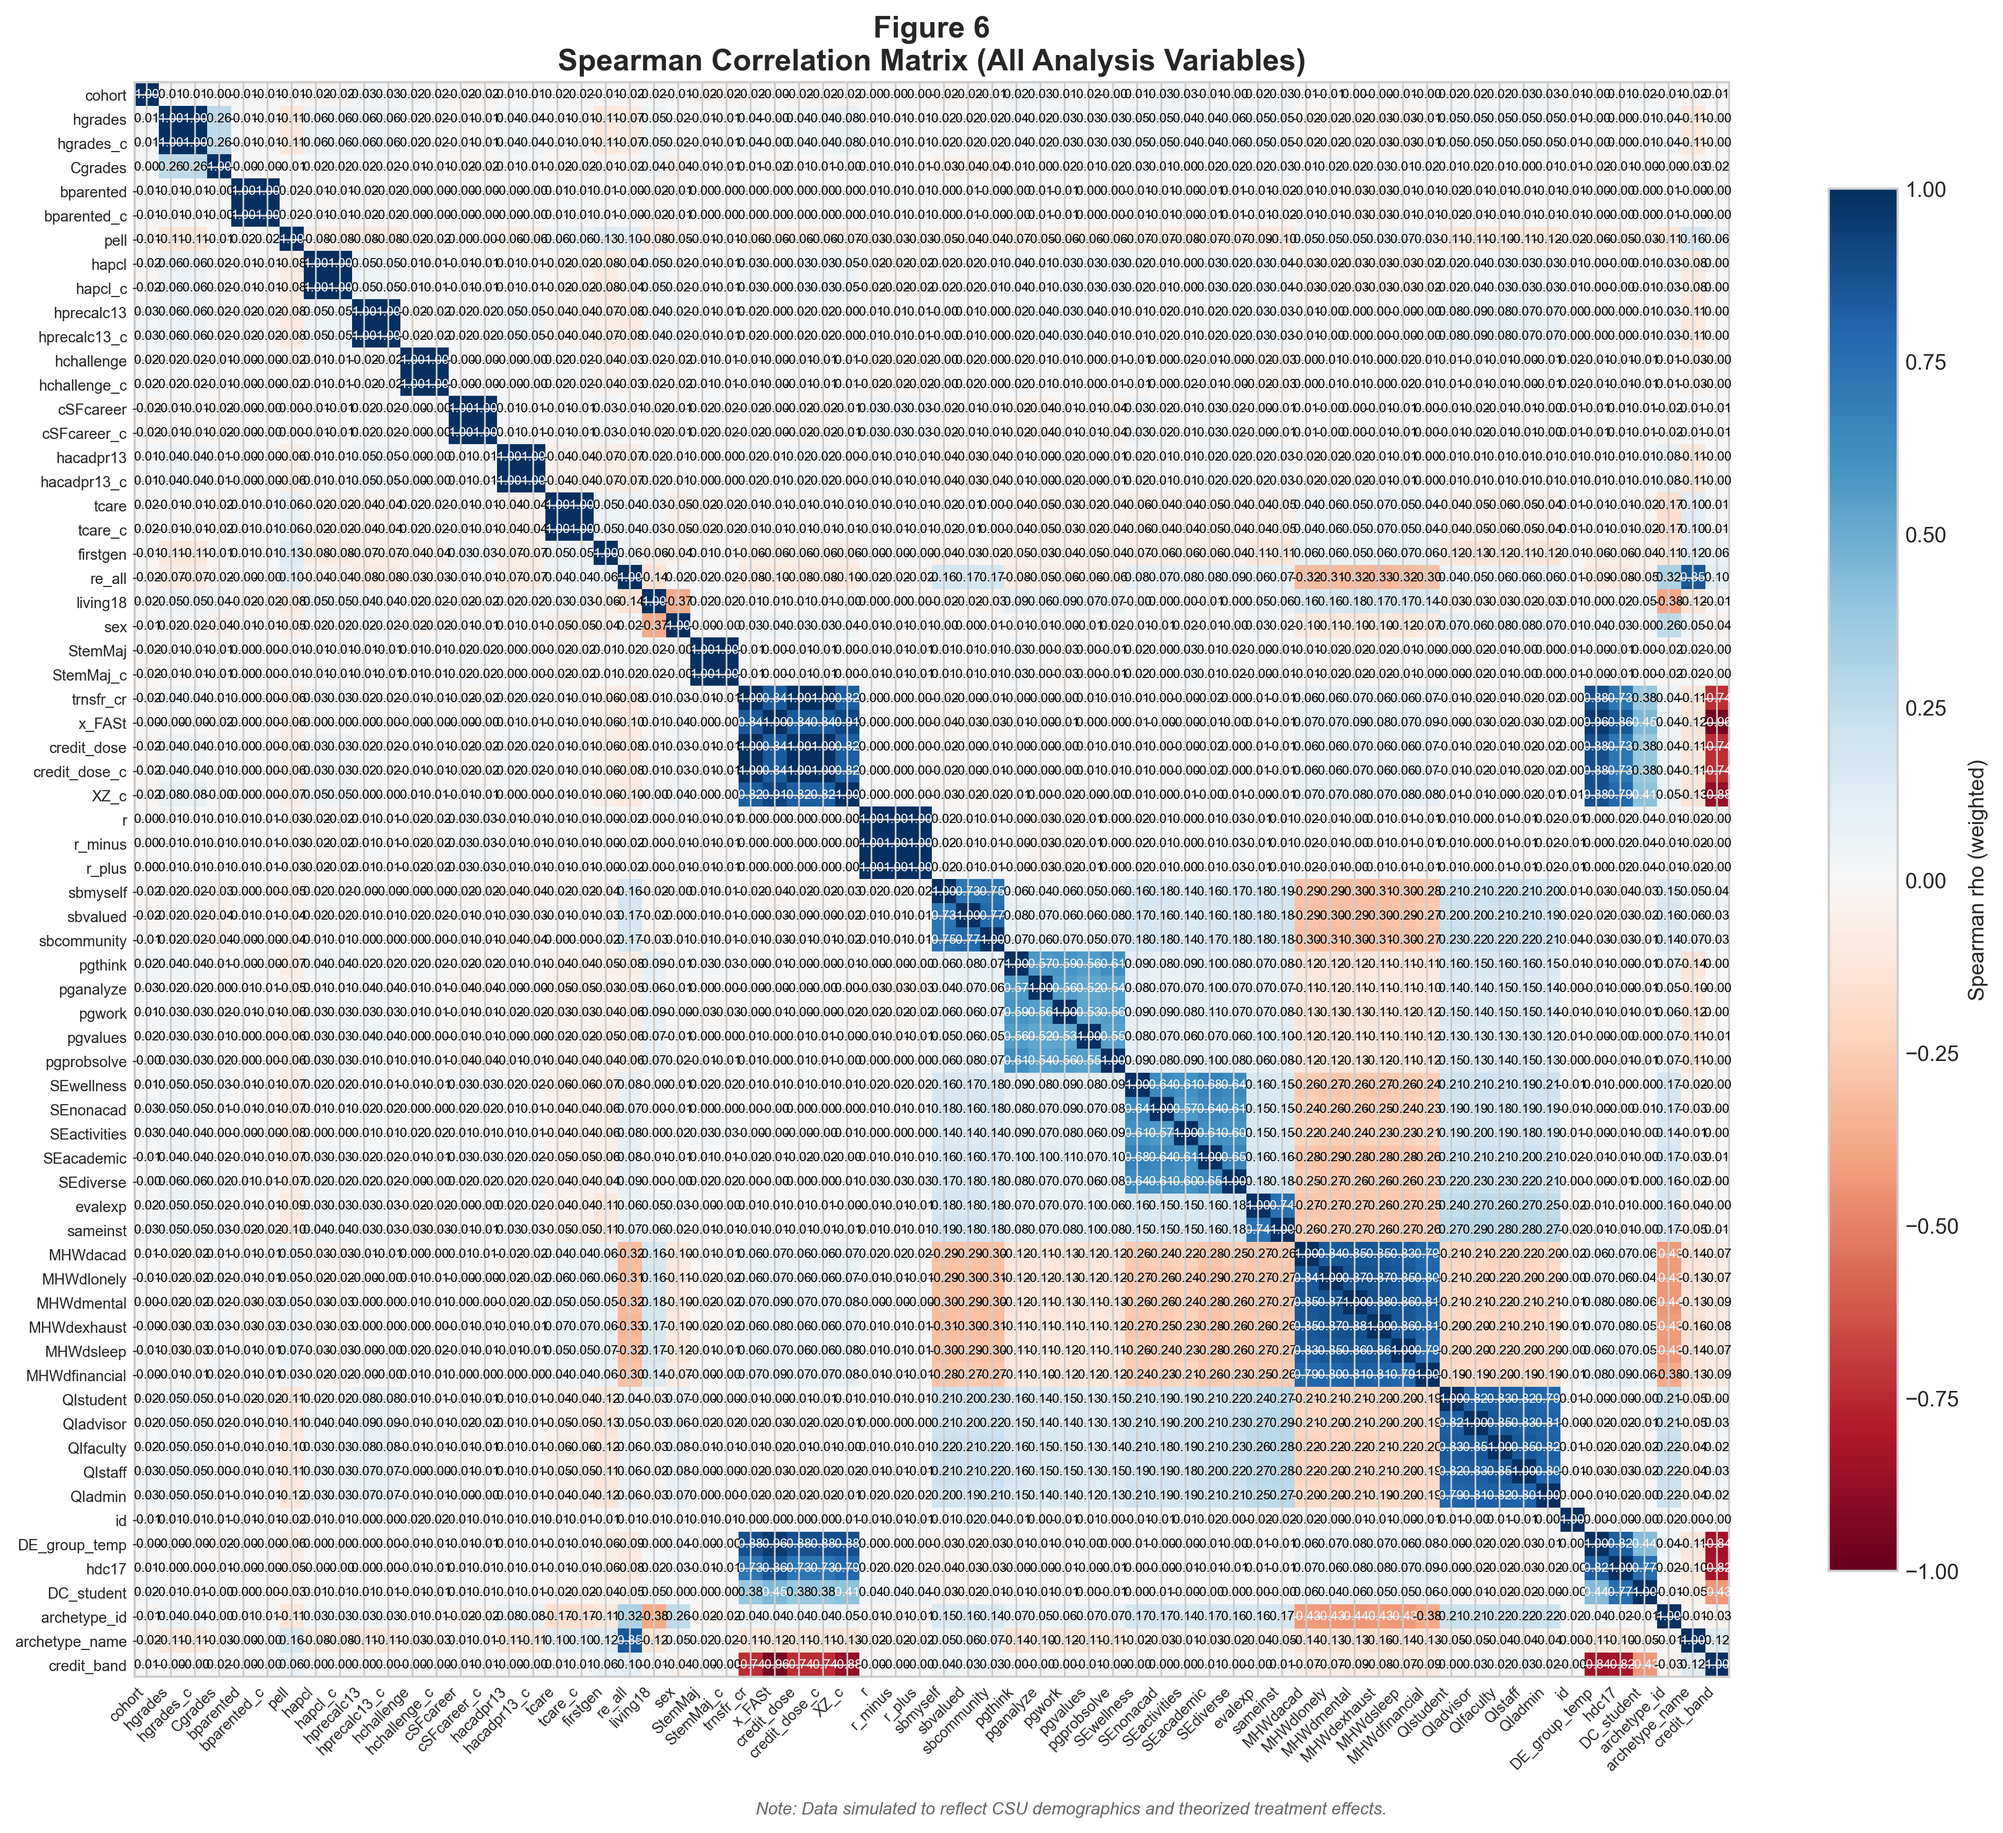
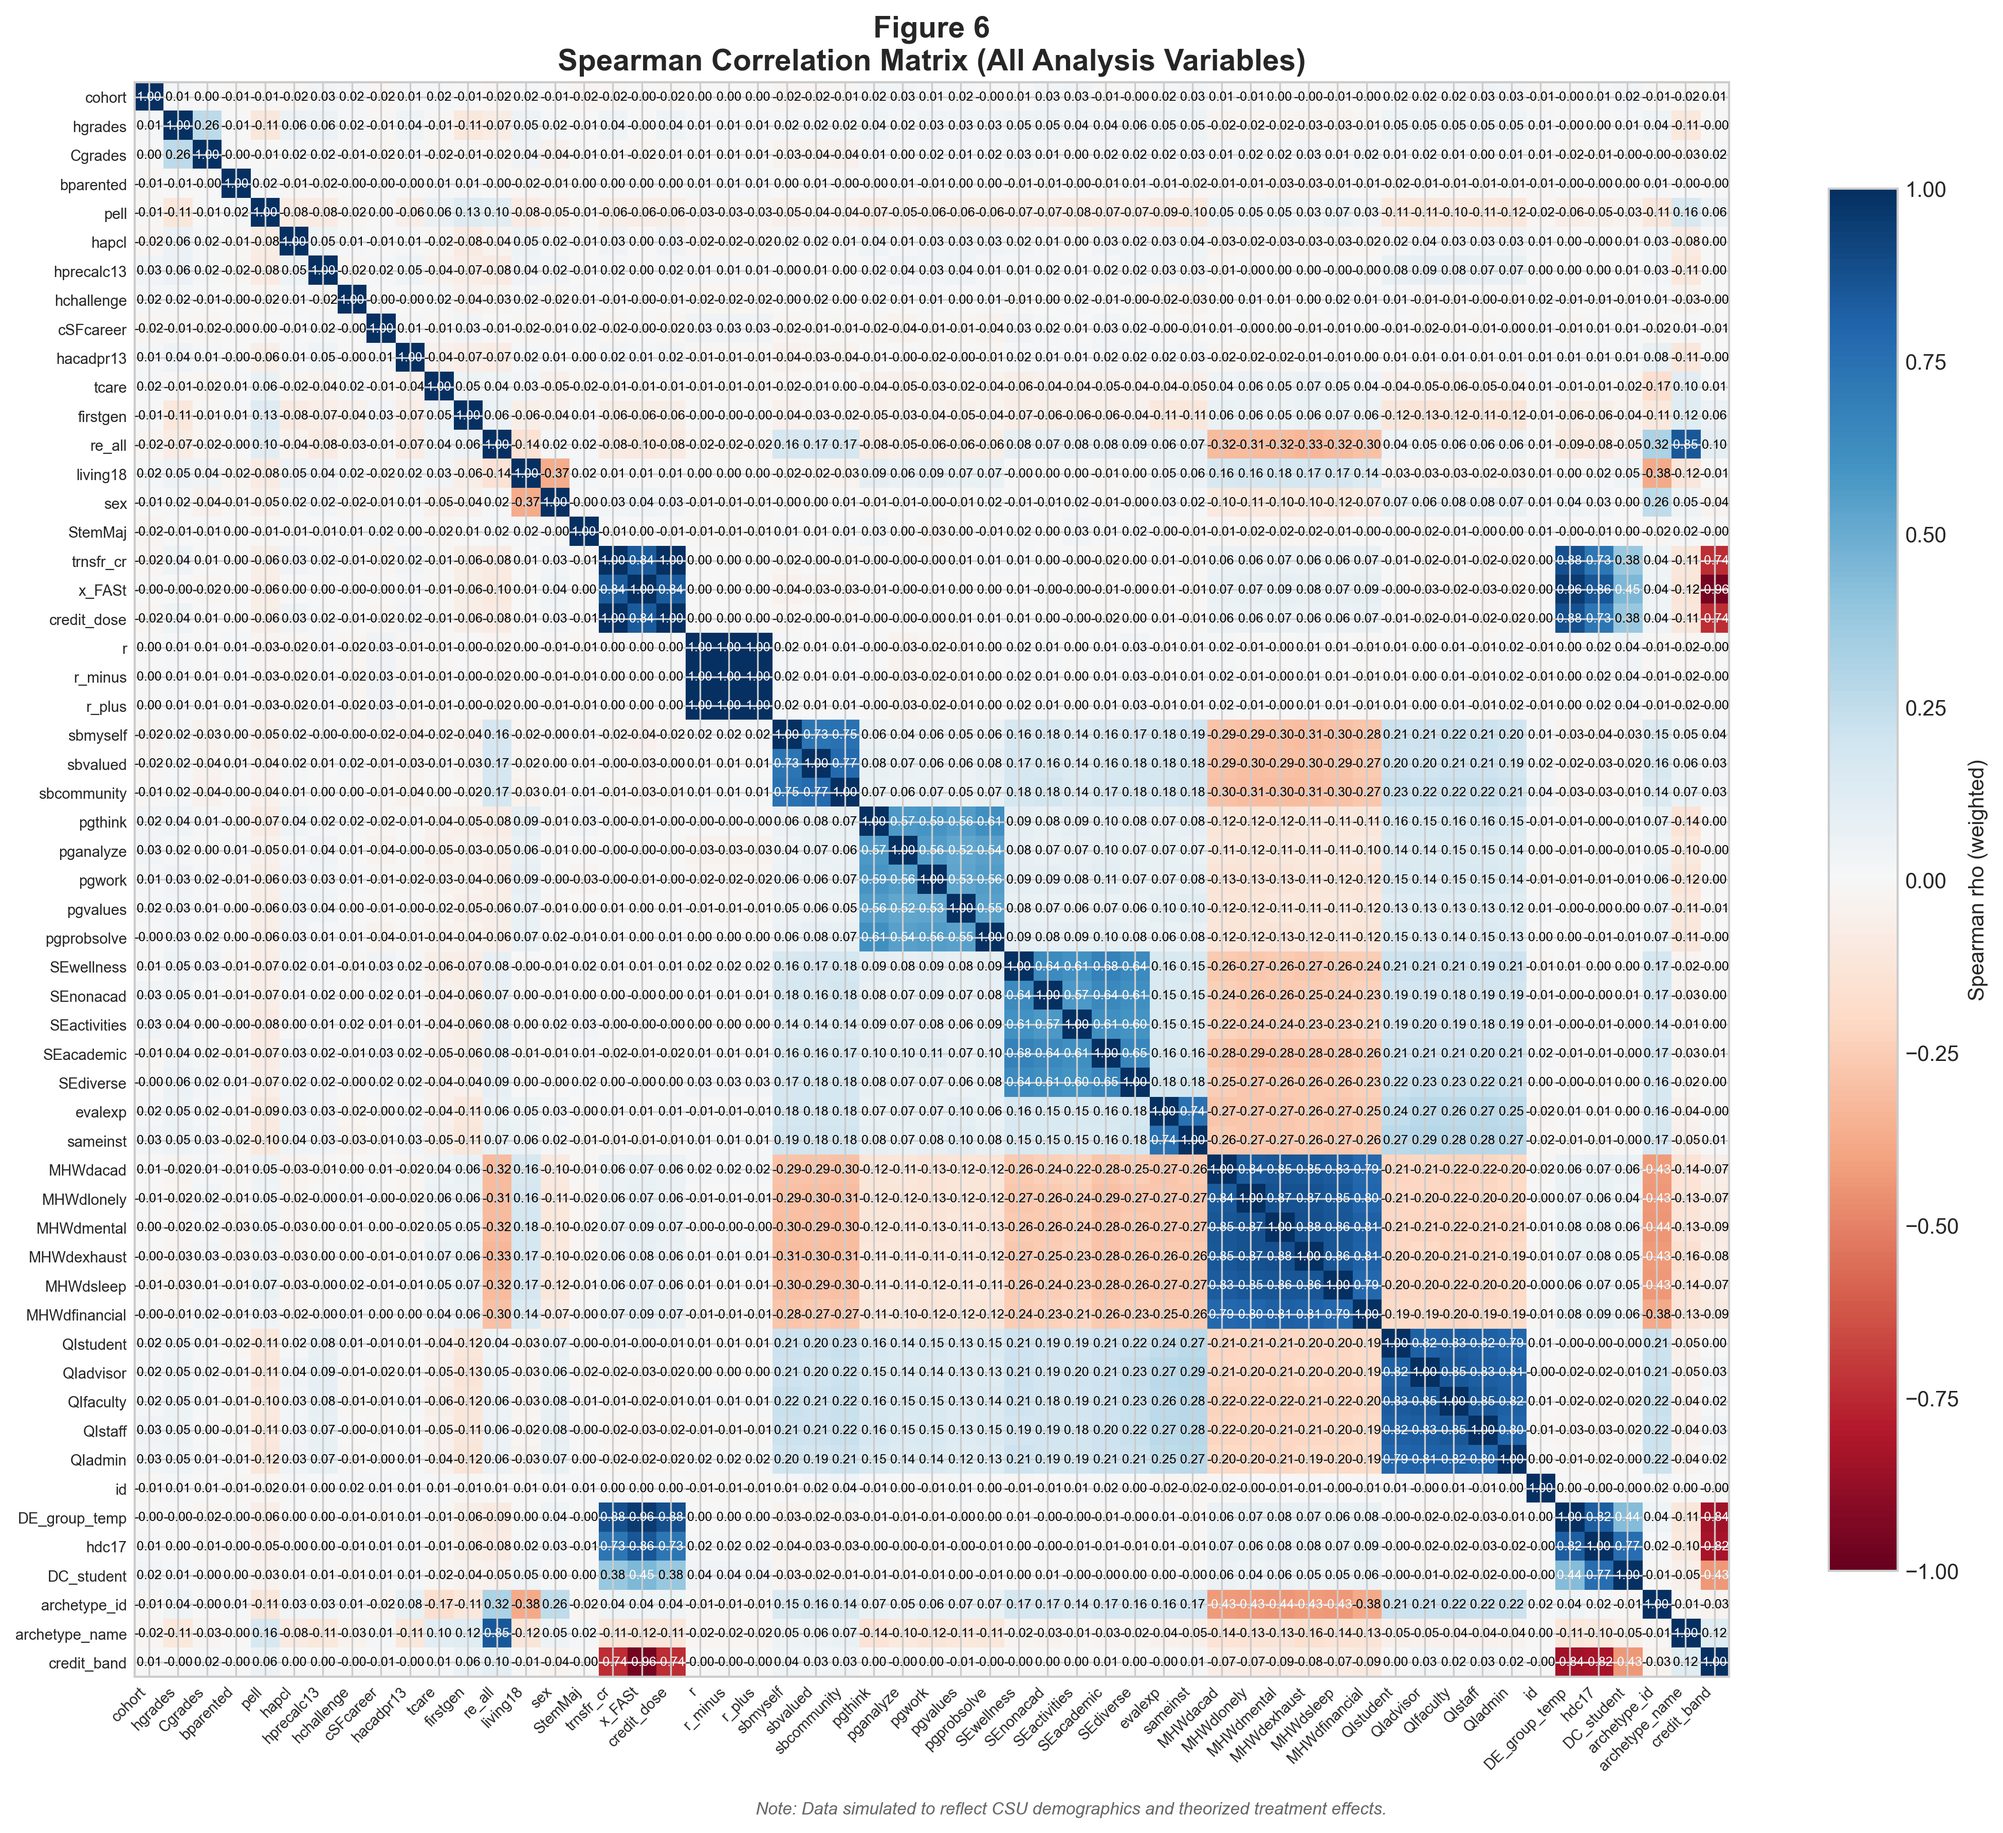
bugs

diff --git a/webapp/src/routes/PathwayPage.tsx b/webapp/src/routes/PathwayPage.tsx
@@ -28,6 +28,11 @@ export default function PathwayPage() {
     togglePathLabels,
   } = useResearch();
   const { paths } = useModelData();
+
+  const handleRefreshData = useCallback(() => {
+    window.dispatchEvent(new Event('model-data-refresh'));
+  }, []);
+
   console.log('(NO $) [PathwayPage] path snapshot:', {
     a1: paths.a1?.estimate,
     a2: paths.a2?.estimate,
@@ -390,6 +395,7 @@ export default function PathwayPage() {
           variants={containerVariants}
         >
           <h2 id="coefficients-heading">Key Findings</h2>
+          <InteractiveSurface as="div" className={styles.keyFindingsCard} hoverLift={0}>
           <p className={styles.coefficientNote}>
             Evidence badges reflect p-value thresholds:{" "}
             <span className={styles.badgeLegend}>
@@ -467,6 +473,18 @@ export default function PathwayPage() {
               );
             })}
           </div>
+          <div className={styles.cardFooter}>
+            <InteractiveSurface
+              as="button"
+              type="button"
+              className="button button-secondary button-sm interactiveSurface"
+              onClick={handleRefreshData}
+              aria-label="Refresh data from the latest model run"
+            >
+              Refresh data
+            </InteractiveSurface>
+          </div>
+          </InteractiveSurface>
         </motion.section>
 
         <motion.section

diff --git a/webapp/src/routes/HomePage.tsx b/webapp/src/routes/HomePage.tsx
@@ -93,17 +93,6 @@ export default function HomePage() {
             </GlossaryTerm>
             .
           </p>
-          <div className="cta-container">
-            <button
-              type="button"
-              className="button button-secondary button-sm interactiveSurface"
-              onClick={refreshModelData}
-              disabled={isRefreshing}
-              aria-busy={isRefreshing}
-            >
-              {isRefreshing ? "Refreshing…" : "Refresh data"}
-            </button>
-          </div>
         </div>
       </motion.section>
 

diff --git a/webapp/src/routes/PathwayPage.module.css b/webapp/src/routes/PathwayPage.module.css
@@ -292,6 +292,19 @@
   color: white;
 }
 
+.keyFindingsCard {
+  padding: var(--spacing-xl);
+  border-radius: var(--radius-lg);
+}
+
+.cardFooter {
+  margin-top: var(--spacing-xl);
+  padding-top: var(--spacing-lg);
+  border-top: 1px solid var(--color-border-light);
+  display: flex;
+  justify-content: center;
+}
+
 .coefficientGrid {
   display: grid;
   grid-template-columns: repeat(auto-fit, minmax(280px, 1fr));

diff --git a/webapp/src/routes/HomePage.module.css b/webapp/src/routes/HomePage.module.css
@@ -87,10 +87,10 @@
 .statsFooter {
   margin-top: var(--spacing-lg);
   display: flex;
+  flex-direction: column;
   align-items: center;
-  justify-content: space-between;
+  justify-content: center;
   gap: var(--spacing-md);
-  flex-wrap: wrap;
 }
 
 /* ============================================

diff --git a/3_Analysis/4_Plots_Code/plot_descriptives.py b/3_Analysis/4_Plots_Code/plot_descriptives.py
@@ -694,7 +694,7 @@ def main(data_path='1_Dataset/rep_data.csv', outdir='4_Model_Results/Figures', w
     # =========================================================================
     fig, ax = plt.subplots(figsize=(14, 12))
 
-    analysis_cols = [c for c in df.columns if c != weight_col]
+    analysis_cols = [c for c in df.columns if c != weight_col and not c.endswith('_c')]
     corr_df = df[analysis_cols].copy()
     if use_weights:
         ranks = corr_df.rank(method='average', na_option='keep')
